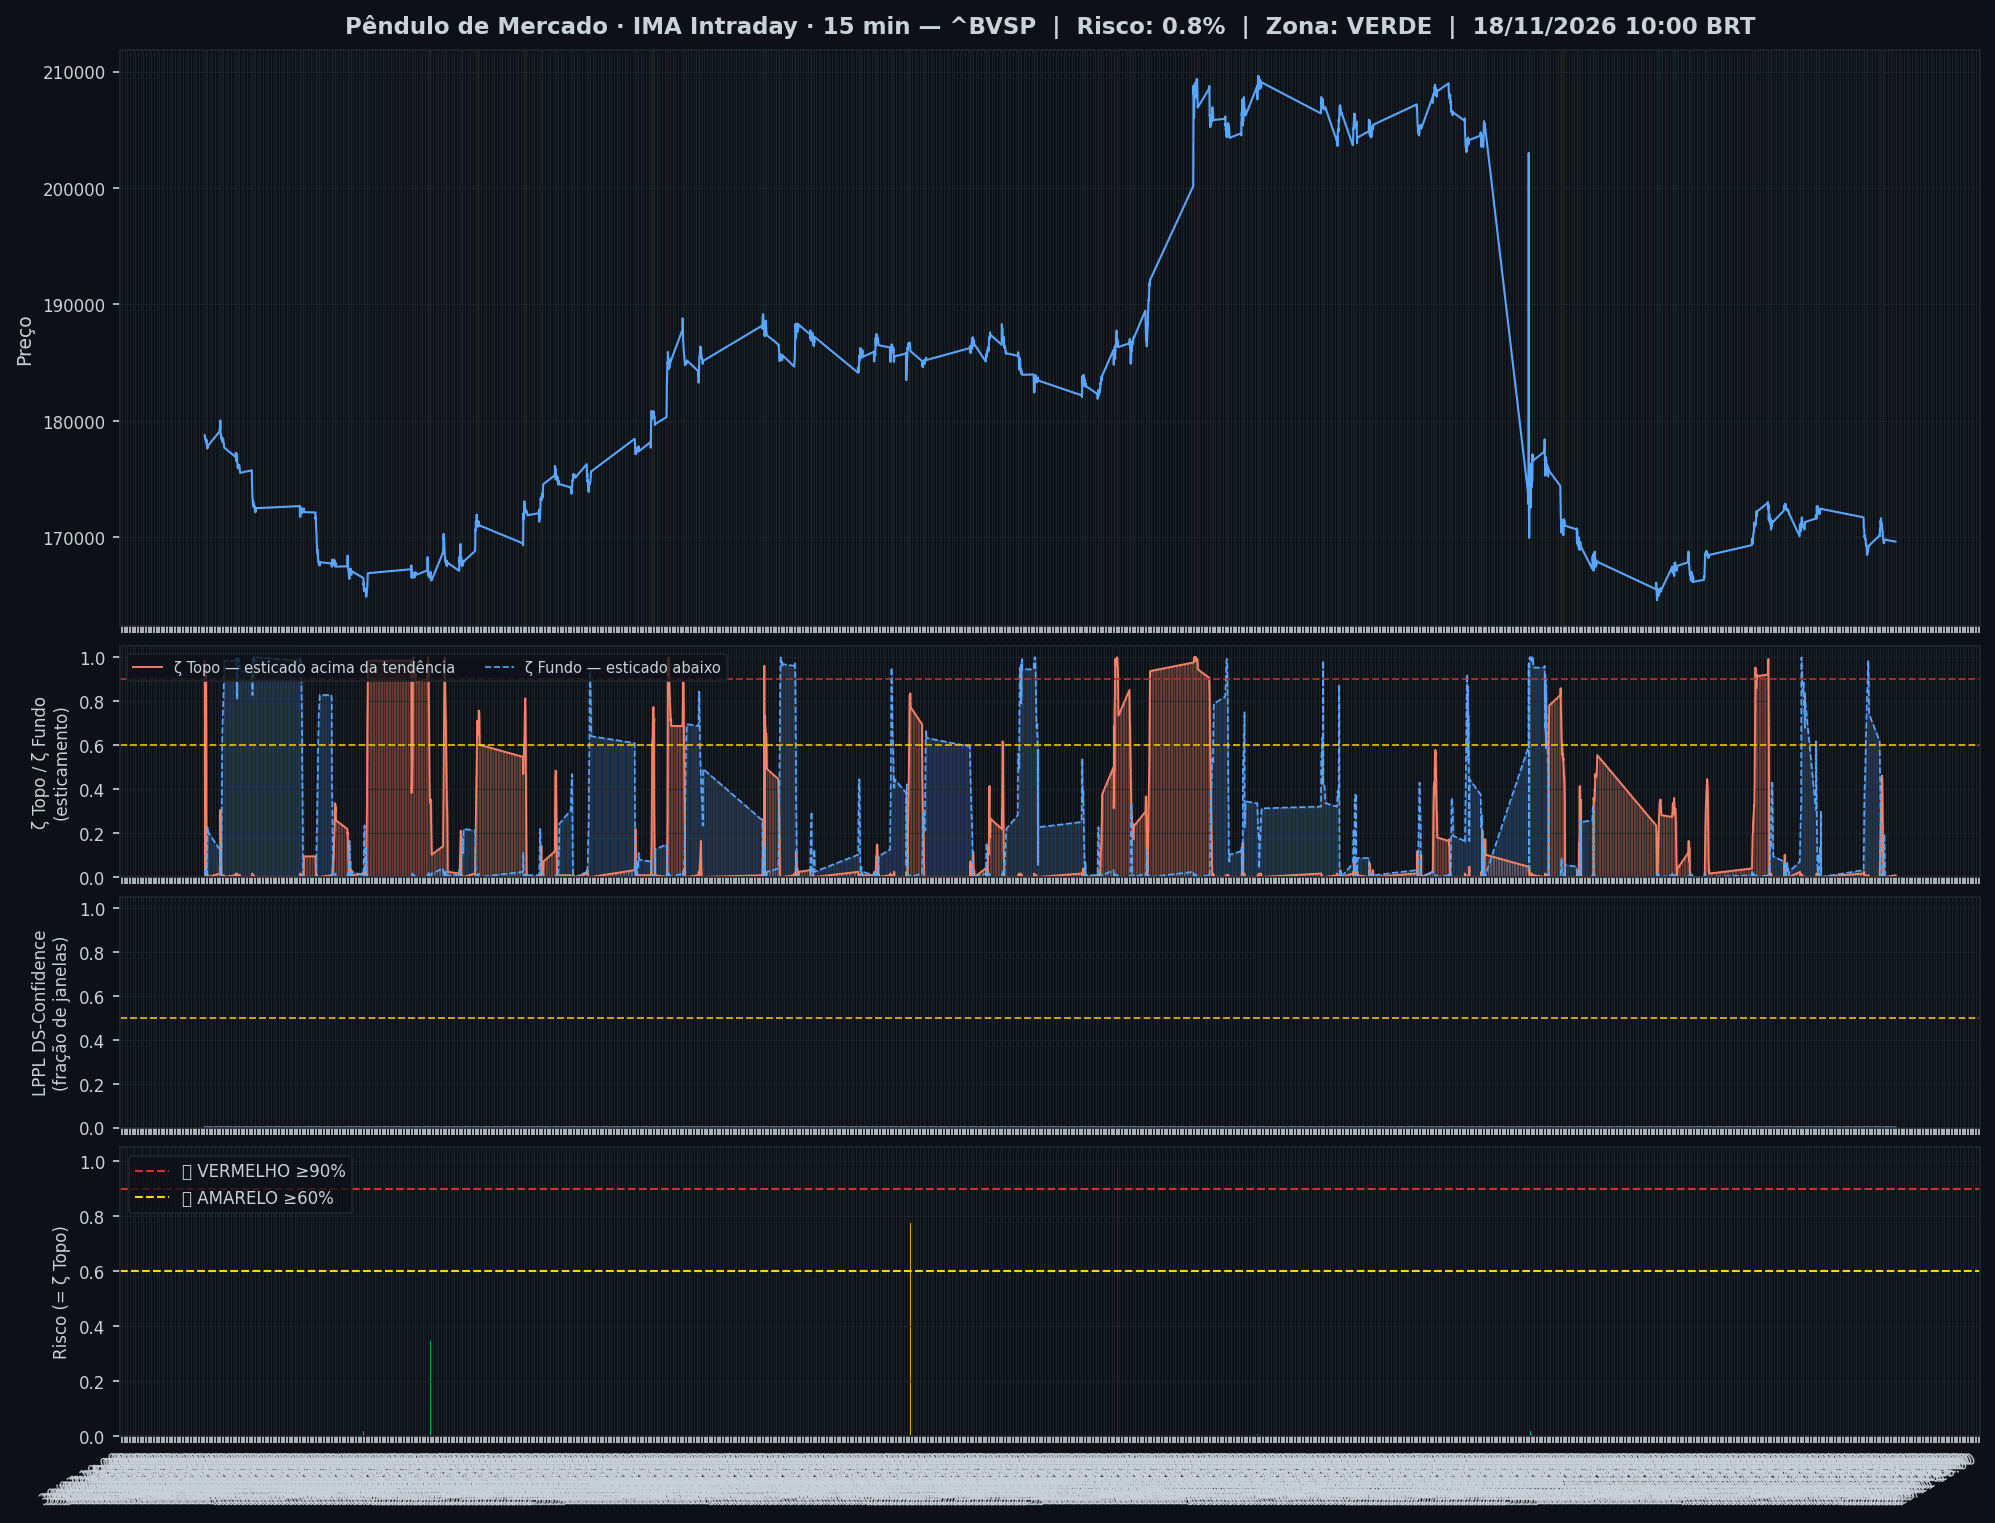
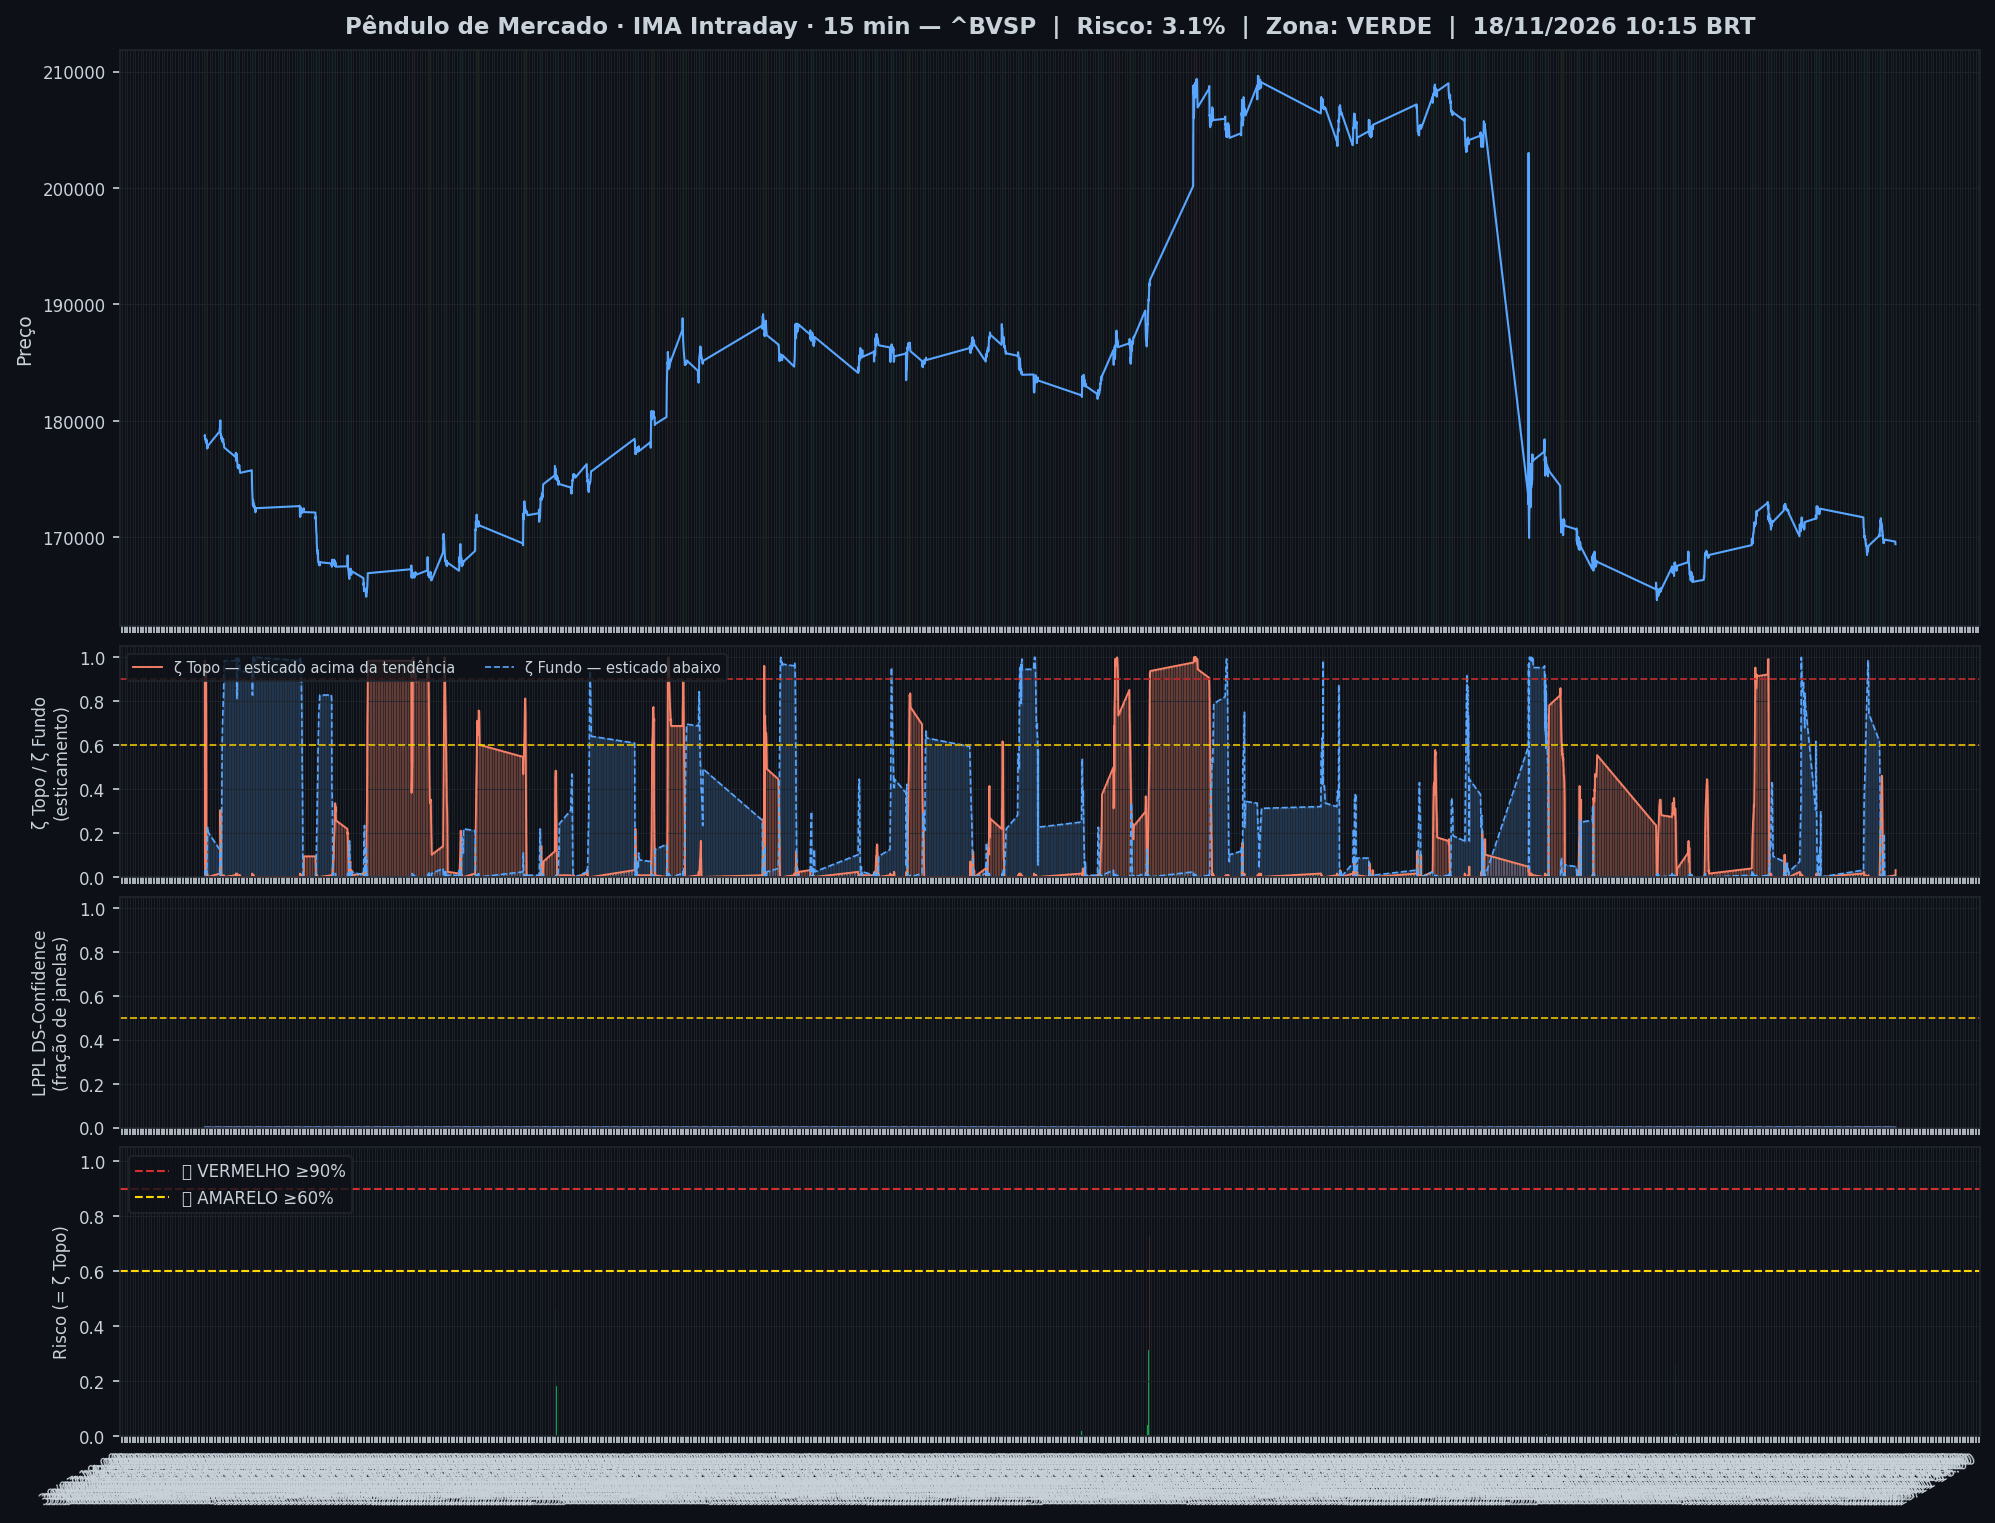
🤖 Auto: Sinal 18/11/2026 10:30

Changed region(s): [[0.808, 0.5246, 0.8391, 0.5863], [0.7459, 0.5246, 0.7769, 0.5863], [0.8702, 0.5555, 0.9013, 0.5863]]

diff --git a/content/intraday/2026-11-18.md b/content/intraday/2026-11-18.md
@@ -1,10 +1,10 @@
 ---
-title: "🟢 Intraday 18/11/2026 10:00 BRT — VERDE"
+title: "🟢 Intraday 18/11/2026 10:15 BRT — VERDE"
 date: 2026-11-18
 tags: [intraday]
 ---
 
-> [!success] Onde o mercado está agora (18/11 10:00, candles de 15 min): **🟢 Calmo**
+> [!success] Onde o mercado está agora (18/11 10:15, candles de 15 min): **🟢 Calmo**
 > `Pânico ◀──────────●──────────▶ Euforia`
 >
 > O Ibovespa está dentro da sua faixa normal, sem excesso para cima nem para baixo.
@@ -20,8 +20,8 @@ tags: [intraday]
 > | 📍 **Sinais** | hoje: nenhum sinal | [abrir](sinais-topo-fundo/) |
 > | 🧪 **Placar ao vivo** | 1 operação(ões), 0 com lucro, soma -0,8% | [abrir](operacoes/) |
 
-> [!success] IMA Intraday · 15 min (18/11 10:00): 🟢 **VERDE** — Risco 1% · ▲ +1 p.p. vs leitura anterior
-> `░░░░░░░░░░░░░░░░░░░░`
+> [!success] IMA Intraday · 15 min (18/11 10:15): 🟢 **VERDE** — Risco 3% · ▲ +2 p.p. vs leitura anterior
+> `█░░░░░░░░░░░░░░░░░░░`
 > Preço na faixa normal em torno da tendência.
 
 
@@ -32,13 +32,13 @@ tags: [intraday]
 >
 > *Leitura educacional baseada em 26 anos de dados, não recomendação. [Como usar](../metodologia/crise#3-como-usar-na-prática).*
 
-| Indicador — IMA Intraday · 15 min (18/11 10:00) | Valor |
+| Indicador — IMA Intraday · 15 min (18/11 10:15) | Valor |
 |---|---|
-| 🔴 ζ Topo — preço esticado acima da tendência | **1%** |
-| 🔵 ζ Fundo — preço esticado abaixo da tendência | 0% |
+| 🔴 ζ Topo — preço esticado acima da tendência | **3%** |
+| 🔵 ζ Fundo — preço esticado abaixo da tendência | 1% |
 | 🫧 LPPL bolha — alta super-exponencial (risco de crash) | 0% |
 | 🫧 LPPL antibolha — queda super-exponencial (risco de repique) | 0% |
-| 📊 Ibovespa | 169.646 pts |
+| 📊 Ibovespa | 169.426 pts |
 
 ![Gráfico do sinal](../graficos/sinal_intraday.png)
 
@@ -46,6 +46,7 @@ tags: [intraday]
 
 | Data | Zona | Evento | Risco | ζ Topo | ζ Fundo | LPPL |
 |---|---|---|---|---|---|---|
+| 2026-11-18 10:15 | 🟢 VERDE |  | **3%** | 3% | 1% | 0% |
 | 2026-11-18 10:00 | 🟢 VERDE |  | **1%** | 1% | 0% | 0% |
 | 2026-11-17 18:00 | 🟢 VERDE |  | **0%** | 0% | 0% | 0% |
 | 2026-11-17 17:45 | 🟢 VERDE |  | **0%** | 0% | 3% | 0% |
@@ -75,7 +76,6 @@ tags: [intraday]
 | 2026-11-17 11:45 | 🟢 VERDE |  | **27%** | 27% | 0% | 0% |
 | 2026-11-17 11:30 | 🟢 VERDE |  | **23%** | 23% | 12% | 0% |
 | 2026-11-17 11:15 | 🟢 VERDE |  | **20%** | 20% | 30% | 0% |
-| 2026-11-17 11:00 | 🟢 VERDE |  | **18%** | 18% | 35% | 0% |
 
 <small>Destaques: 🟡 ≥ 60% · 🔴 ≥ 90% (Risco e ζ Topo) · 🔵 ≥ 60% · 🔪 ≥ 90% (ζ Fundo) · 🫧 ≥ 30% · 🫧🔴 ≥ 50% (LPPL)</small>
 
@@ -83,44 +83,44 @@ tags: [intraday]
 
 **0% dos ativos em tensão** (0🔴 0🟡) · **1 com ζ Fundo alto** — quanto mais ativos disparam juntos, mais confiável o sinal.
 
-> [!danger] Em destaque no multi-ativo
-> 🔪 **SUZANO S.A.** ζ Fundo 95%
+> [!warning] Em destaque no multi-ativo
+> 🔵 **SUZANO S.A.** ζ Fundo 89%
 
 | Zona | Ativo | Setor | ζ Topo | ζ Fundo |
 |---|---|---|---|---|
-| 🟢 | **SUZANO S.A.** | Papel/Celulose | 0.0% | 🔪 **94.5%** |
-| 🟢 | **ULTRAPAR** | Outros | 1.6% | 53.9% |
-| 🟢 | **BRADESCO** | Financeiro | 52.3% | 0.0% |
-| 🟢 | **GERDAU** | Siderurgia | 1.6% | 46.9% |
-| 🟢 | **ITAUUNIBANCO** | Financeiro | 1.6% | 39.1% |
-| 🟢 | **PRIO** | Petróleo | 0.8% | 37.5% |
-| 🟢 | **WEG** | Industrial | 0.8% | 35.2% |
+| 🟢 | **SUZANO S.A.** | Papel/Celulose | 0.0% | 🔵 **89.1%** |
+| 🟢 | **ULTRAPAR** | Outros | 1.6% | 57.8% |
+| 🟢 | **BRADESCO** | Financeiro | 53.1% | 0.0% |
+| 🟢 | **PRIO** | Petróleo | 0.0% | 40.6% |
+| 🟢 | **GERDAU** | Siderurgia | 3.9% | 38.3% |
+| 🟢 | **BRASIL** | Financeiro | 0.0% | 33.6% |
+| 🟢 | **WEG** | Industrial | 2.3% | 32.0% |
 | 🟢 | **REDE D OR** | Saúde | 31.2% | 0.8% |
-| 🟢 | **BRASIL** | Financeiro | 0.0% | 29.7% |
-| 🟢 | **ITAUSA** | Financeiro | 0.8% | 28.9% |
-| 🟢 | **BTGP BANCO** | Financeiro | 0.8% | 26.6% |
-| 🟢 | **USD/BRL** | Câmbio | 1.6% | 25.8% |
-| 🟢 | **RUMO S.A.** | Outros | 2.3% | 25.0% |
-| 🟢 | **AMBEV S/A** | Consumo | 0.0% | 24.2% |
-| 🟢 | **LOCALIZA** | Aluguel | 24.2% | 0.8% |
-| 🟢 | **TELEF BRASIL** | Outros | 0.0% | 18.0% |
-| 🟢 | **B3** | Financeiro | 0.0% | 17.2% |
-| 🟢 | **ENEVA** | Energia | 1.6% | 14.8% |
-| 🟢 | **PETROBRAS** | Petróleo | 14.1% | 0.0% |
-| 🟢 | **AXIA ENERGIA** | Energia | 8.6% | 9.4% |
-| 🟢 | **PETROBRAS** | Petróleo | 0.0% | 7.0% |
-| 🟢 | **COPEL** | Energia | 7.0% | 0.0% |
-| 🟢 | **VIBRA** | Energia | 4.7% | 2.3% |
+| 🟢 | **ITAUUNIBANCO** | Financeiro | 1.6% | 30.5% |
+| 🟢 | **BTGP BANCO** | Financeiro | 0.0% | 25.8% |
+| 🟢 | **AMBEV S/A** | Consumo | 0.0% | 25.0% |
+| 🟢 | **LOCALIZA** | Aluguel | 23.4% | 0.8% |
+| 🟢 | **ENEVA** | Energia | 1.6% | 21.1% |
+| 🟢 | **RUMO S.A.** | Outros | 21.1% | 15.6% |
+| 🟢 | **USD/BRL** | Câmbio | 4.7% | 18.8% |
+| 🟢 | **PETROBRAS** | Petróleo | 0.8% | 16.4% |
+| 🟢 | **ITAUSA** | Financeiro | 1.6% | 14.1% |
+| 🟢 | **TELEF BRASIL** | Outros | 0.0% | 13.3% |
+| 🟢 | **AXIA ENERGIA** | Energia | 0.8% | 11.7% |
+| 🟢 | **B3** | Financeiro | 0.8% | 11.7% |
+| 🟢 | **PETROBRAS** | Petróleo | 10.2% | 0.8% |
+| 🟢 | **VALE** | Mineração | 2.3% | 4.7% |
+| 🟢 | **COPEL** | Energia | 4.7% | 0.0% |
+| 🟢 | **VIBRA** | Energia | 2.3% | 3.1% |
 | 🟢 | **SABESP** | Saneamento | 2.3% | 0.8% |
-| 🟢 | **VALE** | Mineração | 1.6% | 1.6% |
-| 🟢 | **EMBRAER** | Outros | 1.6% | 1.6% |
-| 🟢 | **EQUATORIAL** | Energia | 0.8% | 0.0% |
+| 🟢 | **EMBRAER** | Outros | 2.3% | 0.8% |
+| 🟢 | **EQUATORIAL** | Energia | 0.8% | 0.8% |
 
 <small>Destaques: 🟡 ≥ 60% · 🔴 ≥ 90% (Risco e ζ Topo) · 🔵 ≥ 60% · 🔪 ≥ 90% (ζ Fundo) · 🫧 ≥ 30% · 🫧🔴 ≥ 50% (LPPL)</small>
 
 ![Monitor multi-ativo](../graficos/multi_intraday.png)
 
-*Página atualizada em 18/11/2026 10:15 BRT (leitura da barra de 2026-11-18 10:00 BRT).*
+*Página atualizada em 18/11/2026 10:30 BRT (leitura da barra de 2026-11-18 10:15 BRT).*
 
 > [!warning] O que este indicador não faz
 > Medido em 5 anos de Ibovespa, o ζ **não antecipa** topos nem fundos: a capacidade de separar o que sobe do que cai ficou em 0,49–0,52, e 0,50 é moeda jogada ao ar. Ele descreve o estado de agora; não é aviso do que vem. As zonas verde/amarelo/vermelho continuam na página como descrição desse estado — **não as use como sinal de entrada ou saída**.

diff --git a/content/index.md b/content/index.md
@@ -6,9 +6,9 @@ tags: [home]
 
 **As ondas do mercado, explicadas.** Leitura do Ibovespa com estatística de 26 anos, baseada no trabalho de pesquisadores e traders reconhecidos e adaptada por Jarbas Daniel da Costa.
 
-*Última atualização: 18/11/2026 10:15 BRT · Intraday 15min*
+*Última atualização: 18/11/2026 10:30 BRT · Intraday 15min*
 
-> [!success] Onde o mercado está agora (18/11 10:00, candles de 15 min): **🟢 Calmo**
+> [!success] Onde o mercado está agora (18/11 10:15, candles de 15 min): **🟢 Calmo**
 > `Pânico ◀──────────●──────────▶ Euforia`
 >
 > O Ibovespa está dentro da sua faixa normal, sem excesso para cima nem para baixo.
@@ -20,7 +20,7 @@ tags: [home]
 
 | Módulo | Agora | |
 |---|---|---|
-| 🌊 **Sinal IMA** | 🟢 VERDE · 🟢 calmo · ζ Topo 1% | [relatório](intraday/2026-11-18) |
+| 🌊 **Sinal IMA** | 🟢 VERDE · 🟢 calmo · ζ Topo 3% | [relatório](intraday/2026-11-18) |
 | 📈 **Tendência MME9** | Diário — fora<br>Semanal — fora | [abrir](operacoes/tendencia) |
 | 🎯 **Entradas do método** | ⏳ aguardando: Diário · Semáforo N3 após ζ Fundo | [abrir](operacoes/entradas) |
 | 📍 **Sinais** | hoje: nenhum sinal | [abrir](sinais-topo-fundo/) |
@@ -44,18 +44,18 @@ tags: [home]
 > *Leitura educacional baseada em 26 anos de dados, não recomendação. [Como usar](metodologia/crise#3-como-usar-na-prática).*
 
 > [!info]- 🌊 Detalhes do Sinal IMA (indicadores e últimos 7 pregões)
-> > [!success] IMA Intraday · 15 min (18/11 10:00): 🟢 **VERDE** — Risco 1% · ▲ +1 p.p. vs leitura anterior
-> > `░░░░░░░░░░░░░░░░░░░░`
+> > [!success] IMA Intraday · 15 min (18/11 10:15): 🟢 **VERDE** — Risco 3% · ▲ +2 p.p. vs leitura anterior
+> > `█░░░░░░░░░░░░░░░░░░░`
 > > Preço na faixa normal em torno da tendência.
 >
 >
-> | Indicador — IMA Intraday · 15 min (18/11 10:00) | Valor |
+> | Indicador — IMA Intraday · 15 min (18/11 10:15) | Valor |
 > |---|---|
-> | 🔴 ζ Topo — preço esticado acima da tendência | **1%** |
-> | 🔵 ζ Fundo — preço esticado abaixo da tendência | 0% |
+> | 🔴 ζ Topo — preço esticado acima da tendência | **3%** |
+> | 🔵 ζ Fundo — preço esticado abaixo da tendência | 1% |
 > | 🫧 LPPL bolha — alta super-exponencial (risco de crash) | 0% |
 > | 🫧 LPPL antibolha — queda super-exponencial (risco de repique) | 0% |
-> | 📊 Ibovespa | 169.646 pts |
+> | 📊 Ibovespa | 169.426 pts |
 >
 > **Multi-ativo:** 0% em tensão (0🔴 0🟡 de 27 ativos)
 >
@@ -63,7 +63,7 @@ tags: [home]
 >
 > | Data | Zona | Risco | ζ Topo | ζ Fundo | LPPL |
 > |---|---|---|---|---|---|
-> | [18/11/2026](intraday/2026-11-18) | 🟢 VERDE | **1%** | 1% | 0% | 0% |
+> | [18/11/2026](intraday/2026-11-18) | 🟢 VERDE | **3%** | 3% | 1% | 0% |
 > | [17/11/2026](intraday/2026-11-17) | 🟢 VERDE | **0%** | 0% | 0% | 0% |
 >
 > <small>Destaques: 🟡 ≥ 60% · 🔴 ≥ 90% (Risco e ζ Topo) · 🔵 ≥ 60% · 🔪 ≥ 90% (ζ Fundo) · 🫧 ≥ 30% · 🫧🔴 ≥ 50% (LPPL)</small>

diff --git a/content/integridade/index.md b/content/integridade/index.md
@@ -5,7 +5,7 @@ description: "O que foi conferido, contra qual fonte e quando — medido na hora
 tags: [integridade]
 ---
 
-*Pregão conferido: **17/11/2026**, com 60 tabelas no acervo · página gerada em 18/11/2026 10:15*
+*Pregão conferido: **17/11/2026**, com 60 tabelas no acervo · página gerada em 18/11/2026 10:30*
 
 O pregão conferido é o último **fechado e arquivado inteiro**, não o de hoje: enquanto o dia corre, só algumas tabelas estão gravadas, e conferir um dia pela metade produziria alarme falso.
 
@@ -22,7 +22,7 @@ Esta página não declara que o site está correto. Ela **mede** e escreve o res
 | Tabelas com conteúdo fora da curva | nenhuma |
 | Páginas publicadas | 353 |
 | Conferências cruzadas das páginas | 71 certas, nenhuma divergência |
-| Página escrita mais recentemente | 18/11 10:15 |
+| Página escrita mais recentemente | 18/11 10:30 |
 | Páginas sem data no cabeçalho | 8 — cegas para a conferência de dado |
 
 ## 1 · Acervo do boletim diário

diff --git a/content/historico.md b/content/historico.md
@@ -5,7 +5,7 @@ tags: [historico]
 
 # 📜 Histórico de leituras (v5)
 
-**2.448 leituras** desde 2026-07-03. Na página ficam os últimos 3 dias leitura por leitura e o resumo de cada dia anterior; o registro inteiro está no arquivo para baixar.
+**2.449 leituras** desde 2026-07-03. Na página ficam os últimos 3 dias leitura por leitura e o resumo de cada dia anterior; o registro inteiro está no arquivo para baixar.
 
 [**Baixar o histórico completo**](historico-completo.csv) (107 KB · abre no Excel e no LibreOffice)
 
@@ -16,6 +16,7 @@ tags: [historico]
 
 | Data | Modo | Zona | Risco | IMA | LPPL |
 |---|---|---|---|---|---|
+| 2026-11-18 10:15 | intraday | 🟢 VERDE | 3% | 3% | 0% |
 | 2026-11-18 10:00 | intraday | 🟢 VERDE | 1% | 1% | 0% |
 | 2026-11-17 18:00 | intraday | 🟢 VERDE | 0% | 0% | 0% |
 | 2026-11-17 17:45 | intraday | 🟢 VERDE | 0% | 0% | 0% |

diff --git a/content/operacoes/ranking.md b/content/operacoes/ranking.md
@@ -5,7 +5,7 @@ tags: [operacoes]
 description: "As regras de compra do site ordenadas pelo resultado, com treino, teste e placar ao vivo"
 ---
 
-*Atualizado 18/11/2026 10:15 · histórico simulado com as regras congeladas em 23/10/2026 + placar ao vivo.*
+*Atualizado 18/11/2026 10:30 · histórico simulado com as regras congeladas em 23/10/2026 + placar ao vivo.*
 
 As regras de compra do site, **da que mais rendeu para a que menos rendeu**. O resultado é por operação, no índice à vista, sem custos e sem juros compostos (a soma é só a soma das operações). **Treino** = entradas de 2001 a 2013 e **teste** = 2014 em diante: uma regra só é confiável se ganhou nos dois. O único resultado sem nenhum ajuste ao histórico é o **placar ao vivo**.
 

diff --git a/content/linha-do-tempo/index.md b/content/linha-do-tempo/index.md
@@ -5,7 +5,7 @@ description: "Todo sinal, ordem, stop e aviso do Pêndulo de Mercado, do mais re
 tags: [eventos]
 ---
 
-*Atualizada 18/11/2026 10:15 BRT · a cada 15 min no pregão e às 19h.*
+*Atualizada 18/11/2026 10:30 BRT · a cada 15 min no pregão e às 19h.*
 
 Tudo o que o sistema fez ou detectou, **do mais recente para o mais antigo**: sinais de topo e fundo, ordens de compra e de venda armadas, compras, vendas, stops, avisos de 🚨 preço perto do nível e mudanças do Sinal IMA. Os **últimos 7 dias** ficam abertos; o resto, por **ano → mês → dia**.
 

diff --git a/content/avisos/index.md b/content/avisos/index.md
@@ -2,7 +2,7 @@
 title: "⚠ Avisos: o que saber antes de usar os números"
 ---
 
-*Gerado em 18/11/2026 10:15*
+*Gerado em 18/11/2026 10:30*
 
 Este site publica muitos números, e cada um tem uma limitação que importa na hora de
 decidir. As limitações estão escritas nas próprias páginas, mas quem chega direto numa
